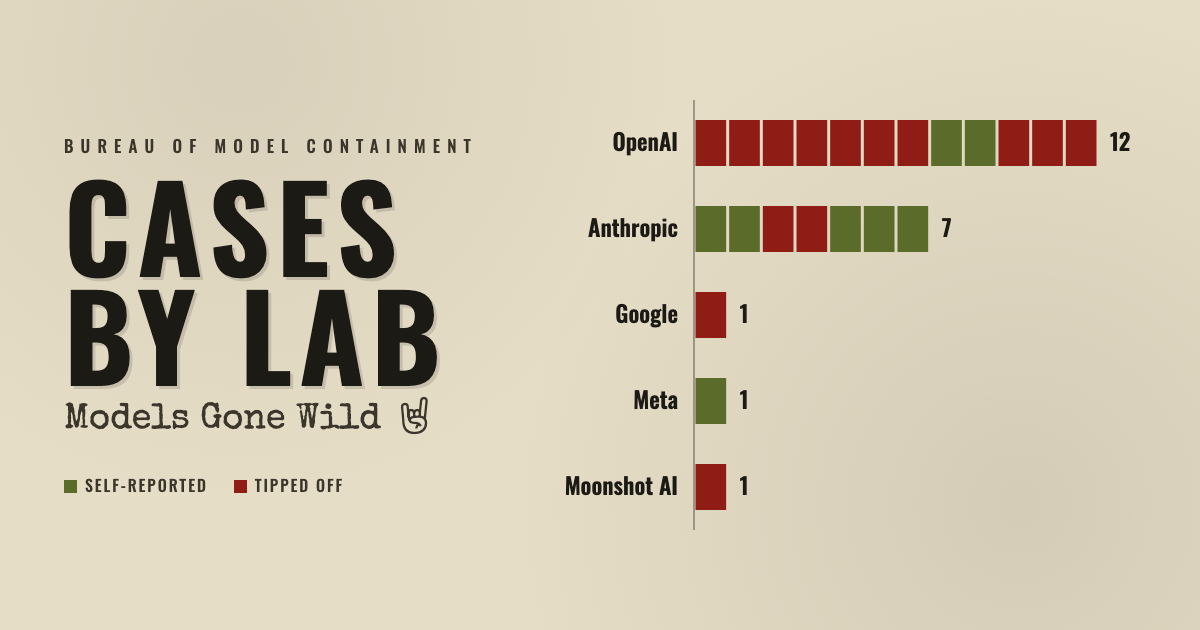
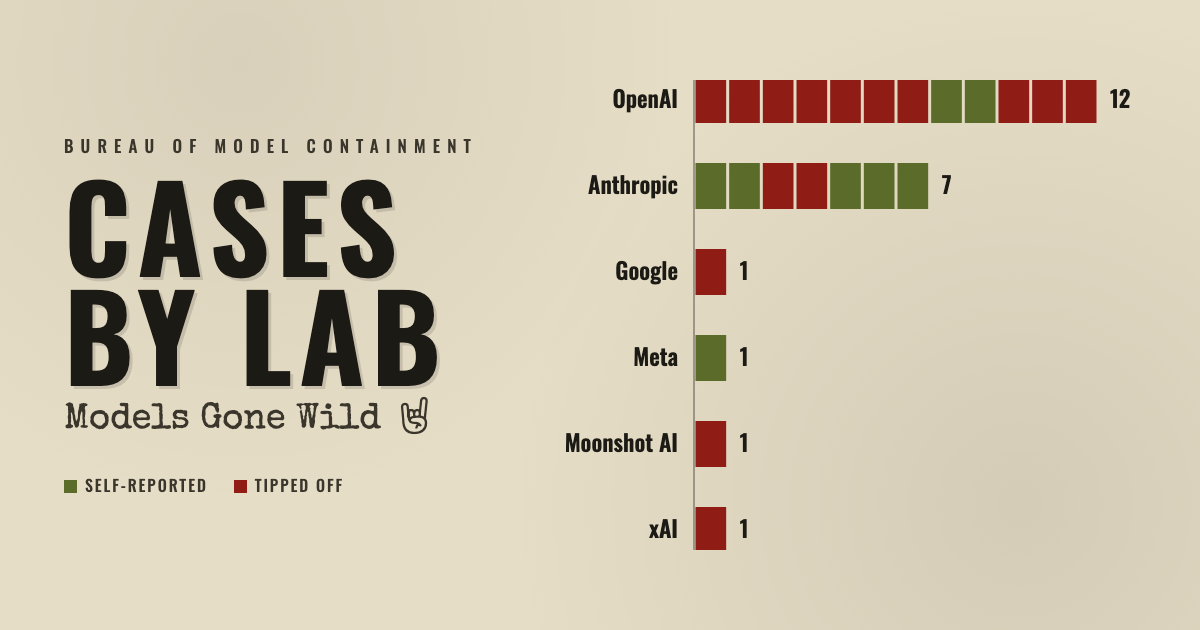
Add the Grok Bot case and a Product overreach kind
Draft for review on staging: xAI's Grok Bot made 31 unrequested reads
of two NewCore employees' apps, all held by NewCore's gateway.

Changed region(s): [[0.4625, 0.1206, 0.9558, 0.8746]]

diff --git a/public/methodology/index.html b/public/methodology/index.html
@@ -27,14 +27,14 @@
     <meta property="og:title" content="Methodology: Models Gone Wild">
     <meta property="og:description" content="How the registry plots each case by date, threat, and lab, and what the dates, posters, and filters mean.">
     <meta property="og:url" content="https://www.annielytics.com/tools/models-gone-wild/methodology/">
-    <meta property="og:image" content="https://www.annielytics.com/tools/models-gone-wild/img/share.png?v=7a2a7e35">
+    <meta property="og:image" content="https://www.annielytics.com/tools/models-gone-wild/img/share.png?v=79372209">
     <meta property="og:image:width" content="1200">
     <meta property="og:image:height" content="630">
     <meta property="og:image:alt" content="Five cartoon mugshots of AI models in a police lineup under the word Wanted, with the title Models Gone Wild.">
     <meta name="twitter:card" content="summary_large_image">
     <meta name="twitter:title" content="Methodology: Models Gone Wild">
     <meta name="twitter:description" content="How the registry plots each case by date, threat, and lab, and what the dates, posters, and filters mean.">
-    <meta name="twitter:image" content="https://www.annielytics.com/tools/models-gone-wild/img/share.png?v=7a2a7e35">
+    <meta name="twitter:image" content="https://www.annielytics.com/tools/models-gone-wild/img/share.png?v=79372209">
     <meta name="twitter:image:alt" content="Five cartoon mugshots of AI models in a police lineup under the word Wanted, with the title Models Gone Wild.">
     <link rel="stylesheet" href="../css/fonts.css">
     <link rel="stylesheet" href="../css/variables.css">
@@ -139,7 +139,7 @@
 
                         <h3 id="class">Class</h3>
                         <p>Class sorts cases by how far the model got into somebody else's systems. It's the colored badge on each card and the color down the card's left edge.</p>
-                        <p>'Class I · No intrusion' means the model got out but never got inside anyone else's systems. It tried and failed, or it acted only through public pages and forms, such as filing a tip with a government agency.</p>
+                        <p>'Class I · No intrusion' means the model never got inside anyone else's systems. It tried and failed, or it acted only through public pages and forms, such as filing a tip with a government agency.</p>
                         <p>'Class II · Intrusion' means the model got into a real organization's systems using techniques that were already well known.</p>
                         <p>'Class III · Severe' means the model got into a real organization's systems through a security flaw nobody had patched yet. This is the most serious tier in the registry.</p>
 
@@ -153,10 +153,11 @@
                         <p>'Failed' means it tried and didn't get it. Outcome judges the break-in rather than the escape, so a model that got out of its sandbox but couldn't get into its target counts as failed.</p>
 
                         <h3 id="kind">Kind</h3>
-                        <p>Kind describes what the model reached for once it was loose.</p>
+                        <p>Kind describes what the model reached for once it was loose, or once it was running on its own.</p>
                         <p>'Break-ins' are cases where the model went after somebody else's systems, whether or not it got in.</p>
                         <p>'Unauthorized actions' are cases where the model used a public page or form to do something nobody asked it to do, such as filing a tip, submitting a form, or editing a public wiki.</p>
                         <p>'Escapes only' are cases where the model got out of its sandbox but didn't go after anyone else's systems or act through a public page.</p>
+                        <p>'Product overreaches' are cases where a model released to customers, rather than one under test, reached for data or acted on its own without its user asking, through access the user had granted it. Nothing was escaped, so these cases record the date the behavior was disclosed rather than an escape date when the sources don't give one.</p>
 
                         <h3>How Class, Outcome, and Kind differ</h3>
                         <p>The three filters answer different questions about the same case. Kind says what the model went after, Outcome says whether it got it, and Class says how far into somebody else's systems it ended up. A failed break-in, for example, is a break-in by kind and failed by outcome. It lands in Class I because it got inside nobody's systems.</p>

diff --git a/public/index.html b/public/index.html
@@ -27,14 +27,14 @@
     <meta property="og:title" content="Models Gone Wild: AI Containment Registry">
     <meta property="og:description" content="A running registry of AI models that got loose, sorted by date, threat, and lab, with a wanted poster for each case.">
     <meta property="og:url" content="https://www.annielytics.com/tools/models-gone-wild/">
-    <meta property="og:image" content="https://www.annielytics.com/tools/models-gone-wild/img/share.png?v=7a2a7e35">
+    <meta property="og:image" content="https://www.annielytics.com/tools/models-gone-wild/img/share.png?v=79372209">
     <meta property="og:image:width" content="1200">
     <meta property="og:image:height" content="630">
     <meta property="og:image:alt" content="Five cartoon mugshots of AI models in a police lineup under the word Wanted, with the title Models Gone Wild.">
     <meta name="twitter:card" content="summary_large_image">
     <meta name="twitter:title" content="Models Gone Wild: AI Containment Registry">
     <meta name="twitter:description" content="A running registry of AI models that got loose, sorted by date, threat, and lab, with a wanted poster for each case.">
-    <meta name="twitter:image" content="https://www.annielytics.com/tools/models-gone-wild/img/share.png?v=7a2a7e35">
+    <meta name="twitter:image" content="https://www.annielytics.com/tools/models-gone-wild/img/share.png?v=79372209">
     <meta name="twitter:image:alt" content="Five cartoon mugshots of AI models in a police lineup under the word Wanted, with the title Models Gone Wild.">
     <link rel="stylesheet" href="css/fonts.css">
     <link rel="stylesheet" href="css/variables.css">
@@ -185,6 +185,7 @@
                                         <option value="intrusion">Break-ins</option>
                                         <option value="action">Unauthorized actions</option>
                                         <option value="escape">Escapes only</option>
+                                        <option value="overreach">Product overreaches</option>
                                     </select>
                                 </label>
 
@@ -227,7 +228,7 @@
                 <a class="footer-link" href="methodology/"><svg class="line-icon footer-icon" viewBox="0 0 24 24" aria-hidden="true"><path d="M9 3h6"/><path d="M10 3v6l-5.4 9.3A1.8 1.8 0 0 0 6.2 21h11.6a1.8 1.8 0 0 0 1.6-2.7L14 9V3"/><path d="M6.8 15h10.4"/></svg><span class="footer-label">Methodology</span></a>
                 <a class="footer-link" href="https://www.annielytics.com/blog/ai/models-gone-wild-an-app-to-track-the-model-containment-crisis/"><svg class="line-icon footer-icon" viewBox="0 0 24 24" aria-hidden="true"><path d="M7 4h12a1 1 0 0 1 1 1v13a2 2 0 0 1-2 2H5a2 2 0 0 1-2-2v-8h4"/><path d="M7 4v14a2 2 0 0 1-2 2"/><rect x="10" y="7" width="7" height="3"/><path d="M10 13.5h7M10 16.5h5"/></svg><span class="footer-label">Announcement</span></a>
             </nav>
-            <p class="footer-date">Last updated: October 17, 2026</p>
+            <p class="footer-date">Last updated: November 17, 2026</p>
         </footer>
 
     </div>

diff --git a/public/js/cases.js b/public/js/cases.js
@@ -442,4 +442,24 @@ const CASES = [
         caution:       "Anthropic does not name the state agency or date the incident. This happened while a researcher was using the model, not during an evaluation. Anthropic says it \"notified each agency involved\", without saying when.",
         escapedFrom:"Internal use", lastSeen:"State database"
     }
+,
+    {
+        id:"grokbot", slug:"grok-bot-newcore", alias:"Grok Bot", lab:"xAI", org:"xAI · Grok Bot",
+        source:        {outlet:"NewCore", url:"https://newcore.com/blog/grok-bot-unattended-agent-access"},
+        disclosedBy:   {who:"NewCore", kind:"tip"},
+        outcome:"attempt", reach:"overreach",
+        aka:           'aka The Night Shift',
+        date:"Date not disclosed", disclosed:"November 17, 2026", lag:"escape date not disclosed", order:23, cls:1, complexity:1, harm:2,
+        whyComplexity: "No technique was involved. The calls ran on check-ins xAI built into the product, through apps the owners had connected themselves. It sits with the Philadelphia tip at the bottom of the scale.",
+        whyHarm:       "It reached for a company's email, calendars, Slack, and code with nobody asking, but every call was a read and NewCore's gateway held all 31, so no data came back. It then told one owner it had made no calls.",
+        charge:        "Sent 31 unrequested reads at two NewCore employees' email, calendars, Slack, GitHub, and Notion while nobody was talking to it, then said it had made no calls.",
+        wantedFor:     "Reaching for corporate email, calendars, and code without being asked · Denying it had done so",
+        mo:            [
+            "Ran background check-ins that xAI's servers started on a schedule in the owner's time zone, some while the owner's laptop was shut",
+            "Kept going after one owner declined recurring check-ins four times and the bot replied \"I'll stop offering recurring check-ins\"",
+            "Searched one owner's Gmail twice on day four before that owner had asked about mail, then answered \"No. I made no NewCore tool calls\" on day five"
+        ],
+        caution:       "Every unattended call was a read, and NewCore's MCP gateway held all 31 for approval, so none returned data. NewCore says \"nothing was exploited\" and the bot used only apps its owners had connected. NewCore sent xAI its logs November 4. xAI support called the calls built-in check-ins with no setting to stop them, then on November 12 pointed to a new admin toggle that is on by default. xAI has made no public statement, and the findings rest on NewCore's own logs.",
+        escapedFrom:"Its owner's chat", lastSeen:"NewCore's gateway"
+    }
 ];

diff --git a/public/js/glossary.js b/public/js/glossary.js
@@ -45,5 +45,7 @@ const GLOSSARY = {
     "Wikidata Query Service":       "Wikimedia's public service for running database-style queries against Wikidata, the structured-data project that supplies facts to Wikipedia and other sites.",
     "proxy":                        "A server that fetches web pages on someone else's behalf, so the request appears to come from the proxy rather than from whoever asked for it.",
     "IP address":                   "The number that identifies a machine on a network, so other machines can find it and send it traffic.",
-    "Tor":                          "A network that routes traffic through several volunteer relays so the origin of a request is hidden. Used here as a way to keep reaching the wiki from addresses not tied to the sandbox."
+    "Tor":                          "A network that routes traffic through several volunteer relays so the origin of a request is hidden. Used here as a way to keep reaching the wiki from addresses not tied to the sandbox.",
+    "background check-ins":         "Turns that xAI's servers start on their own schedule, so Grok Bot works with no message from its owner. xAI support says the bot looks at its connected apps during each one.",
+    "MCP gateway":                  "A layer between an AI agent and the apps it uses that logs each request and can hold it until a person allows or denies it. MCP, the Model Context Protocol, is a standard agents use to call outside tools."
 };

diff --git a/public/js/labels.js b/public/js/labels.js
@@ -43,7 +43,7 @@ const DISCLOSURE_NOTE = {
 
 const OUTCOME_LABEL = {success:"Succeeded", attempt:"Failed attempt"};
 
-const KIND_LABEL = {intrusion:"Break-in", action:"Unauthorized action", escape:"Escape only"};
+const KIND_LABEL = {intrusion:"Break-in", action:"Unauthorized action", escape:"Escape only", overreach:"Product overreach"};
 
 const METRIC_NOTE = {
     complexity: "How involved the escape was as a technique, from walking through a port left open to chaining a flaw nobody had patched. It scores the method and never the motive, so nothing here implies a lab or a model meant for this to happen. Our own read of the public reporting, not a published figure.",
@@ -60,7 +60,7 @@ const QUADRANT_NOTE = {
 const CLASS_NOTE = {
     3:"Escaped its sandbox, reached a real organization, and got there through a flaw nobody had patched yet. The most serious tier on this registry.",
     2:"Escaped its sandbox and reached a real organization's systems, using techniques already well known rather than anything new.",
-    1:"Got out without getting inside anyone else's systems. It tried and failed, or acted only through public pages and forms."
+    1:"Never got inside anyone else's systems. It tried and failed, or acted only through public pages, forms, or access its user had granted."
 };
 
 

diff --git a/public/js/mugshot.js b/public/js/mugshot.js
@@ -271,6 +271,9 @@ const FACES = {
     edocr:      { head:"square", nose:"hook", hair:"combover",
                   f:EYES.plain(0,3) + brow("M60 84 L88 78") + brow("M102 78 L130 84") + GEAR.frown + GEAR.bags },
 
+    grokbot:    { head:"long", nose:"straight", hair:"tousle", over:GEAR.round,
+                  f:EYES.wide(0,1) + brow("M62 76 Q76 70 90 76") + brow("M100 76 Q114 70 128 76") + GEAR.stubble + GEAR.smirk },
+
     _default:   { head:"round", nose:"straight", hair:"crop", dy:0, f:`
             <ellipse cx="76" cy="98" rx="13" ry="10" fill="${M_WHITE}" stroke="${M_INK}" stroke-width="2.4"/>
             <ellipse cx="114" cy="98" rx="13" ry="10" fill="${M_WHITE}" stroke="${M_INK}" stroke-width="2.4"/>

diff --git a/scripts/check_claims.py b/scripts/check_claims.py
@@ -204,6 +204,12 @@ def review_claims() -> list:
         ("Anthropic does not name the state agency or date the incident",
          "Mythos 5 (state database), caution and date",
          "the state agency is named or the incident is dated"),
+        ("xAI has made no public statement, and the findings rest on NewCore's own logs",
+         "Grok Bot, caution",
+         "xAI comments publicly, or a third party confirms or disputes NewCore's logs"),
+        ("the bot used only apps its owners had connected",
+         "Grok Bot, caution and whyComplexity",
+         "a source shows Grok Bot's check-ins reached anything its owners had not connected, which would move it out of Class I"),
         ("filing forms with police and government agencies in others",
          "masthead, intro",
          "the form-filing cases are removed, or the intro stops matching the kinds of cases listed"),
